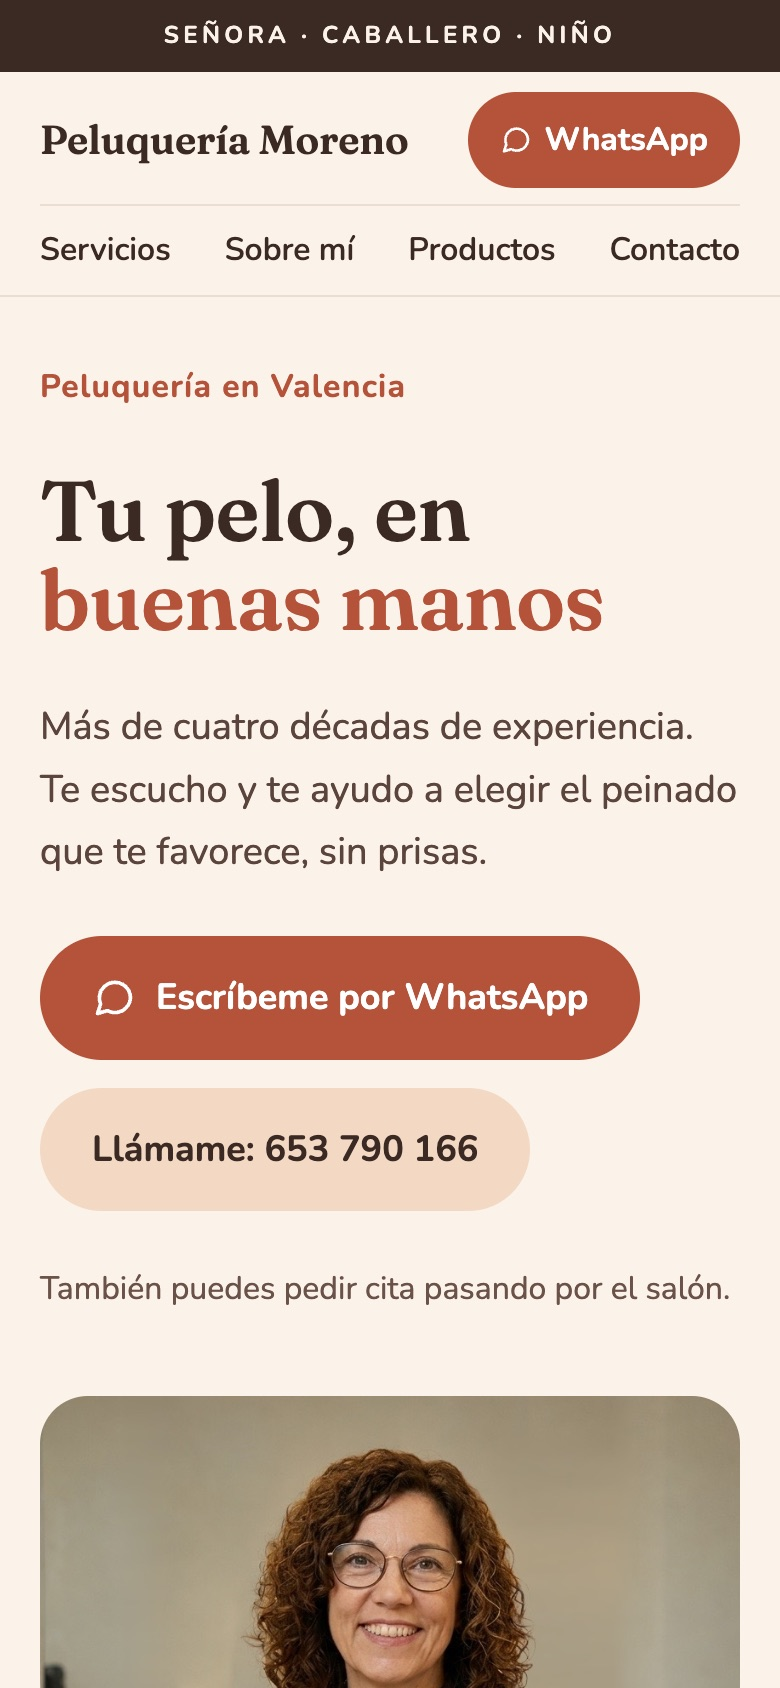
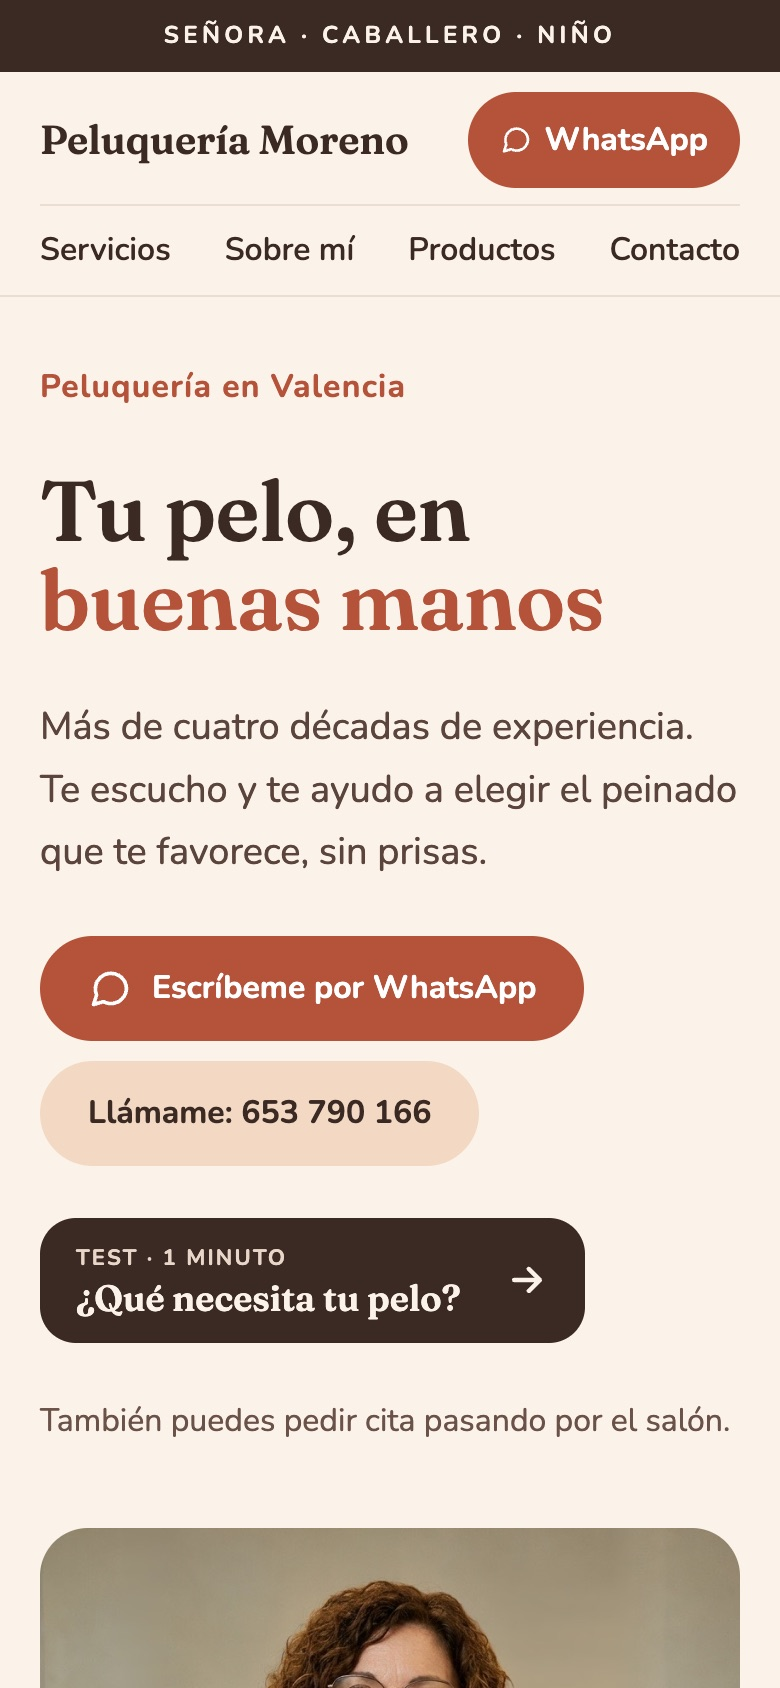
Añade el test de pelo al caso de Peluquería Moreno y actualiza las capturas

Changed region(s): [[0.0308, 0.5545, 0.9538, 1.0], [0.8308, 0.7393, 0.9231, 0.7701], [0.0308, 0.9858, 0.0923, 1.0]]

diff --git a/index.html b/index.html
@@ -48,8 +48,8 @@
     <div class="container">
       <p class="eyebrow">Selected work</p>
       <div class="case-head">
-        <h2>Peluquería Milagros Moreno</h2>
-        <p class="case-sub">A website that turns local searches into bookings for a hair salon in Valencia, Spain.</p>
+        <h2>Peluquería Moreno</h2>
+        <p class="case-sub">A website and an interactive hair quiz that turn local searches into bookings for a hair salon in Valencia, Spain.</p>
       </div>
 
       <dl class="meta">
@@ -66,7 +66,7 @@
             <div class="browser-url">peluqueriamoreno.es</div>
           </div>
           <div class="browser-view" tabindex="0" aria-label="Scrollable preview of the salon website on desktop">
-            <img src="images/moreno-long.jpg" alt="Desktop view of the salon website: hero with WhatsApp and phone buttons, services cards and the owner's story" width="1440" height="2400">
+            <img src="images/moreno-long.jpg" alt="Desktop view of the salon website: hero with WhatsApp, phone and quiz buttons, services cards and the owner's story" width="1440" height="2400">
           </div>
           <figcaption>Desktop. Scroll inside the frame to see more.</figcaption>
         </figure>
@@ -80,6 +80,7 @@
 
       <div class="case-links">
         <a class="btn btn-primary" href="https://peluqueriamoreno.es/" target="_blank" rel="noopener">View live site ↗</a>
+        <a class="btn btn-ghost" href="https://peluqueriamoreno.es/test.html" target="_blank" rel="noopener">Try the quiz ↗</a>
         <a class="btn btn-ghost" href="https://github.com/andrea-mmo/peluqueria-moreno" target="_blank" rel="noopener">View code on GitHub ↗</a>
       </div>
 
@@ -112,11 +113,11 @@
         </li>
         <li>
           <h4>Built to be measured</h4>
-          <p>Every button is tagged by position (header, hero, services, each product, contact), ready for cookieless analytics, so we can see which sections actually drive enquiries and improve from there.</p>
+          <p>Every button is tracked as its own event by position (header, hero, services, each product, contact) with Umami, a cookieless analytics tool, so we can see which sections actually drive enquiries and improve from there.</p>
         </li>
         <li>
-          <h4>Local search basics done properly</h4>
-          <p>Descriptive title and meta description, address, opening hours, an embedded map and semantic HTML, so the site supports her Google Business profile rather than competing with it.</p>
+          <h4>Easy to find, good to share</h4>
+          <p>Its own domain, descriptive titles, address, opening hours, an embedded map and semantic HTML to support her Google Business profile, plus a branded preview card when the link is shared on WhatsApp or social media.</p>
         </li>
         <li>
           <h4>Mobile first, accessible, compliant</h4>
@@ -124,12 +125,60 @@
         </li>
       </ol>
 
+      <div class="quiz-feature">
+        <div class="quiz-intro">
+          <p class="eyebrow">Feature spotlight</p>
+          <h3 class="decisions-title">The hair quiz: a lead magnet that recommends, sells and spreads</h3>
+          <p>After launch I added a one-minute quiz, <span lang="es">“¿Qué necesita tu pelo?”</span> (What does your hair need?). Four simple questions lead to a personal result, turning a casual visitor into an enquiry that already says what they need.</p>
+        </div>
+
+        <ul class="phones" tabindex="0" aria-label="Screens of the hair quiz">
+          <li>
+            <div class="phone-view"><img src="images/quiz-intro.jpg" alt="Quiz start screen with a start button and a button to send the quiz to someone" width="780" height="1688" loading="lazy"></div>
+            <span>1. A low-effort promise</span>
+          </li>
+          <li>
+            <div class="phone-view"><img src="images/quiz-question.jpg" alt="Quiz question one of four, with four large answer buttons and a progress bar" width="780" height="1688" loading="lazy"></div>
+            <span>2. One tap per question</span>
+          </li>
+          <li>
+            <div class="phone-view"><img src="images/quiz-result.jpg" alt="Quiz result card recommending two products, with share and WhatsApp buttons" width="780" height="1688" loading="lazy"></div>
+            <span>3. A result worth sharing</span>
+          </li>
+        </ul>
+
+        <ul class="quiz-points">
+          <li>
+            <h4>Personal recommendations</h4>
+            <p>Each answer scores against five possible outcomes. The result shows the main need, a second one when it applies, the salon's own products for home and the right treatment in the salon.</p>
+          </li>
+          <li>
+            <h4>Two ways to convert</h4>
+            <p>“Book an appointment” opens WhatsApp with a message that already names the treatment. A second button sends the result itself, so Milagros knows what the customer needs before she replies.</p>
+          </li>
+          <li>
+            <h4>Made to be shared</h4>
+            <p>The result becomes a story-sized image, generated in the browser and passed to the phone's share menu. A “send it to a friend” link with a ready-written message brings new visitors in.</p>
+          </li>
+          <li>
+            <h4>Placed where doubt appears</h4>
+            <p>The quiz is offered in the hero, next to “not sure what you need?” in services, and above the products, exactly where a visitor might hesitate.</p>
+          </li>
+          <li>
+            <h4>Measured as a funnel</h4>
+            <p>Starts, each result type, shares, booking clicks and retakes are tracked as events, showing which hair concerns are most common and which entry point works best.</p>
+          </li>
+        </ul>
+      </div>
+
       <div class="tools">
         <span class="tools-label">Built with</span>
         <ul>
           <li>HTML</li>
           <li>CSS</li>
           <li>JavaScript</li>
+          <li>Canvas API</li>
+          <li>Web Share API</li>
           <li>GitHub Pages</li>
           <li>Umami Analytics</li>
           <li>WhatsApp click-to-chat</li>

diff --git a/styles.css b/styles.css
@@ -419,6 +419,66 @@ figcaption {
   color: var(--ink-soft);
 }
 
+/* Quiz spotlight */
+.quiz-feature {
+  margin-top: 72px;
+  padding-top: 56px;
+  border-top: 1px solid var(--line);
+}
+
+.quiz-intro p:last-child {
+  max-width: 62ch;
+  color: var(--ink-soft);
+}
+
+.quiz-intro .decisions-title {
+  margin-top: 0;
+  margin-bottom: 14px;
+  max-width: 34ch;
+  line-height: 1.15;
+}
+
+/* Swipeable row on phones, three across from tablet up */
+.phones {
+  display: flex;
+  gap: 20px;
+  margin: 36px -24px 0;
+  padding: 0 24px 28px;
+  overflow-x: auto;
+  scroll-snap-type: x mandatory;
+}
+
+.phones li {
+  flex: 0 0 210px;
+  scroll-snap-align: center;
+  text-align: center;
+}
+
+.phones span {
+  display: block;
+  margin-top: 14px;
+  font-size: 14px;
+  font-weight: 500;
+  color: var(--ink-soft);
+}
+
+.quiz-points {
+  display: grid;
+  gap: 24px 40px;
+  margin-top: 24px;
+}
+
+.quiz-points li {
+  padding-left: 18px;
+  border-left: 2px solid var(--accent);
+}
+
+.quiz-points p {
+  margin-top: 6px;
+  font-size: 16px;
+  color: var(--ink-soft);
+}
+
 .tools {
   display: flex;
   flex-wrap: wrap;
@@ -546,6 +606,24 @@ figcaption {
   }
 
   .decisions {
+    grid-template-columns: repeat(2, 1fr);
+  }
+
+  .phones {
+    justify-content: center;
+    gap: 36px;
+    margin-left: 0;
+    margin-right: 0;
+    padding-left: 0;
+    padding-right: 0;
+    overflow: visible;
+  }
+
+  .phones li {
+    flex-basis: 220px;
+  }
+
+  .quiz-points {
     grid-template-columns: repeat(2, 1fr);
   }
 
